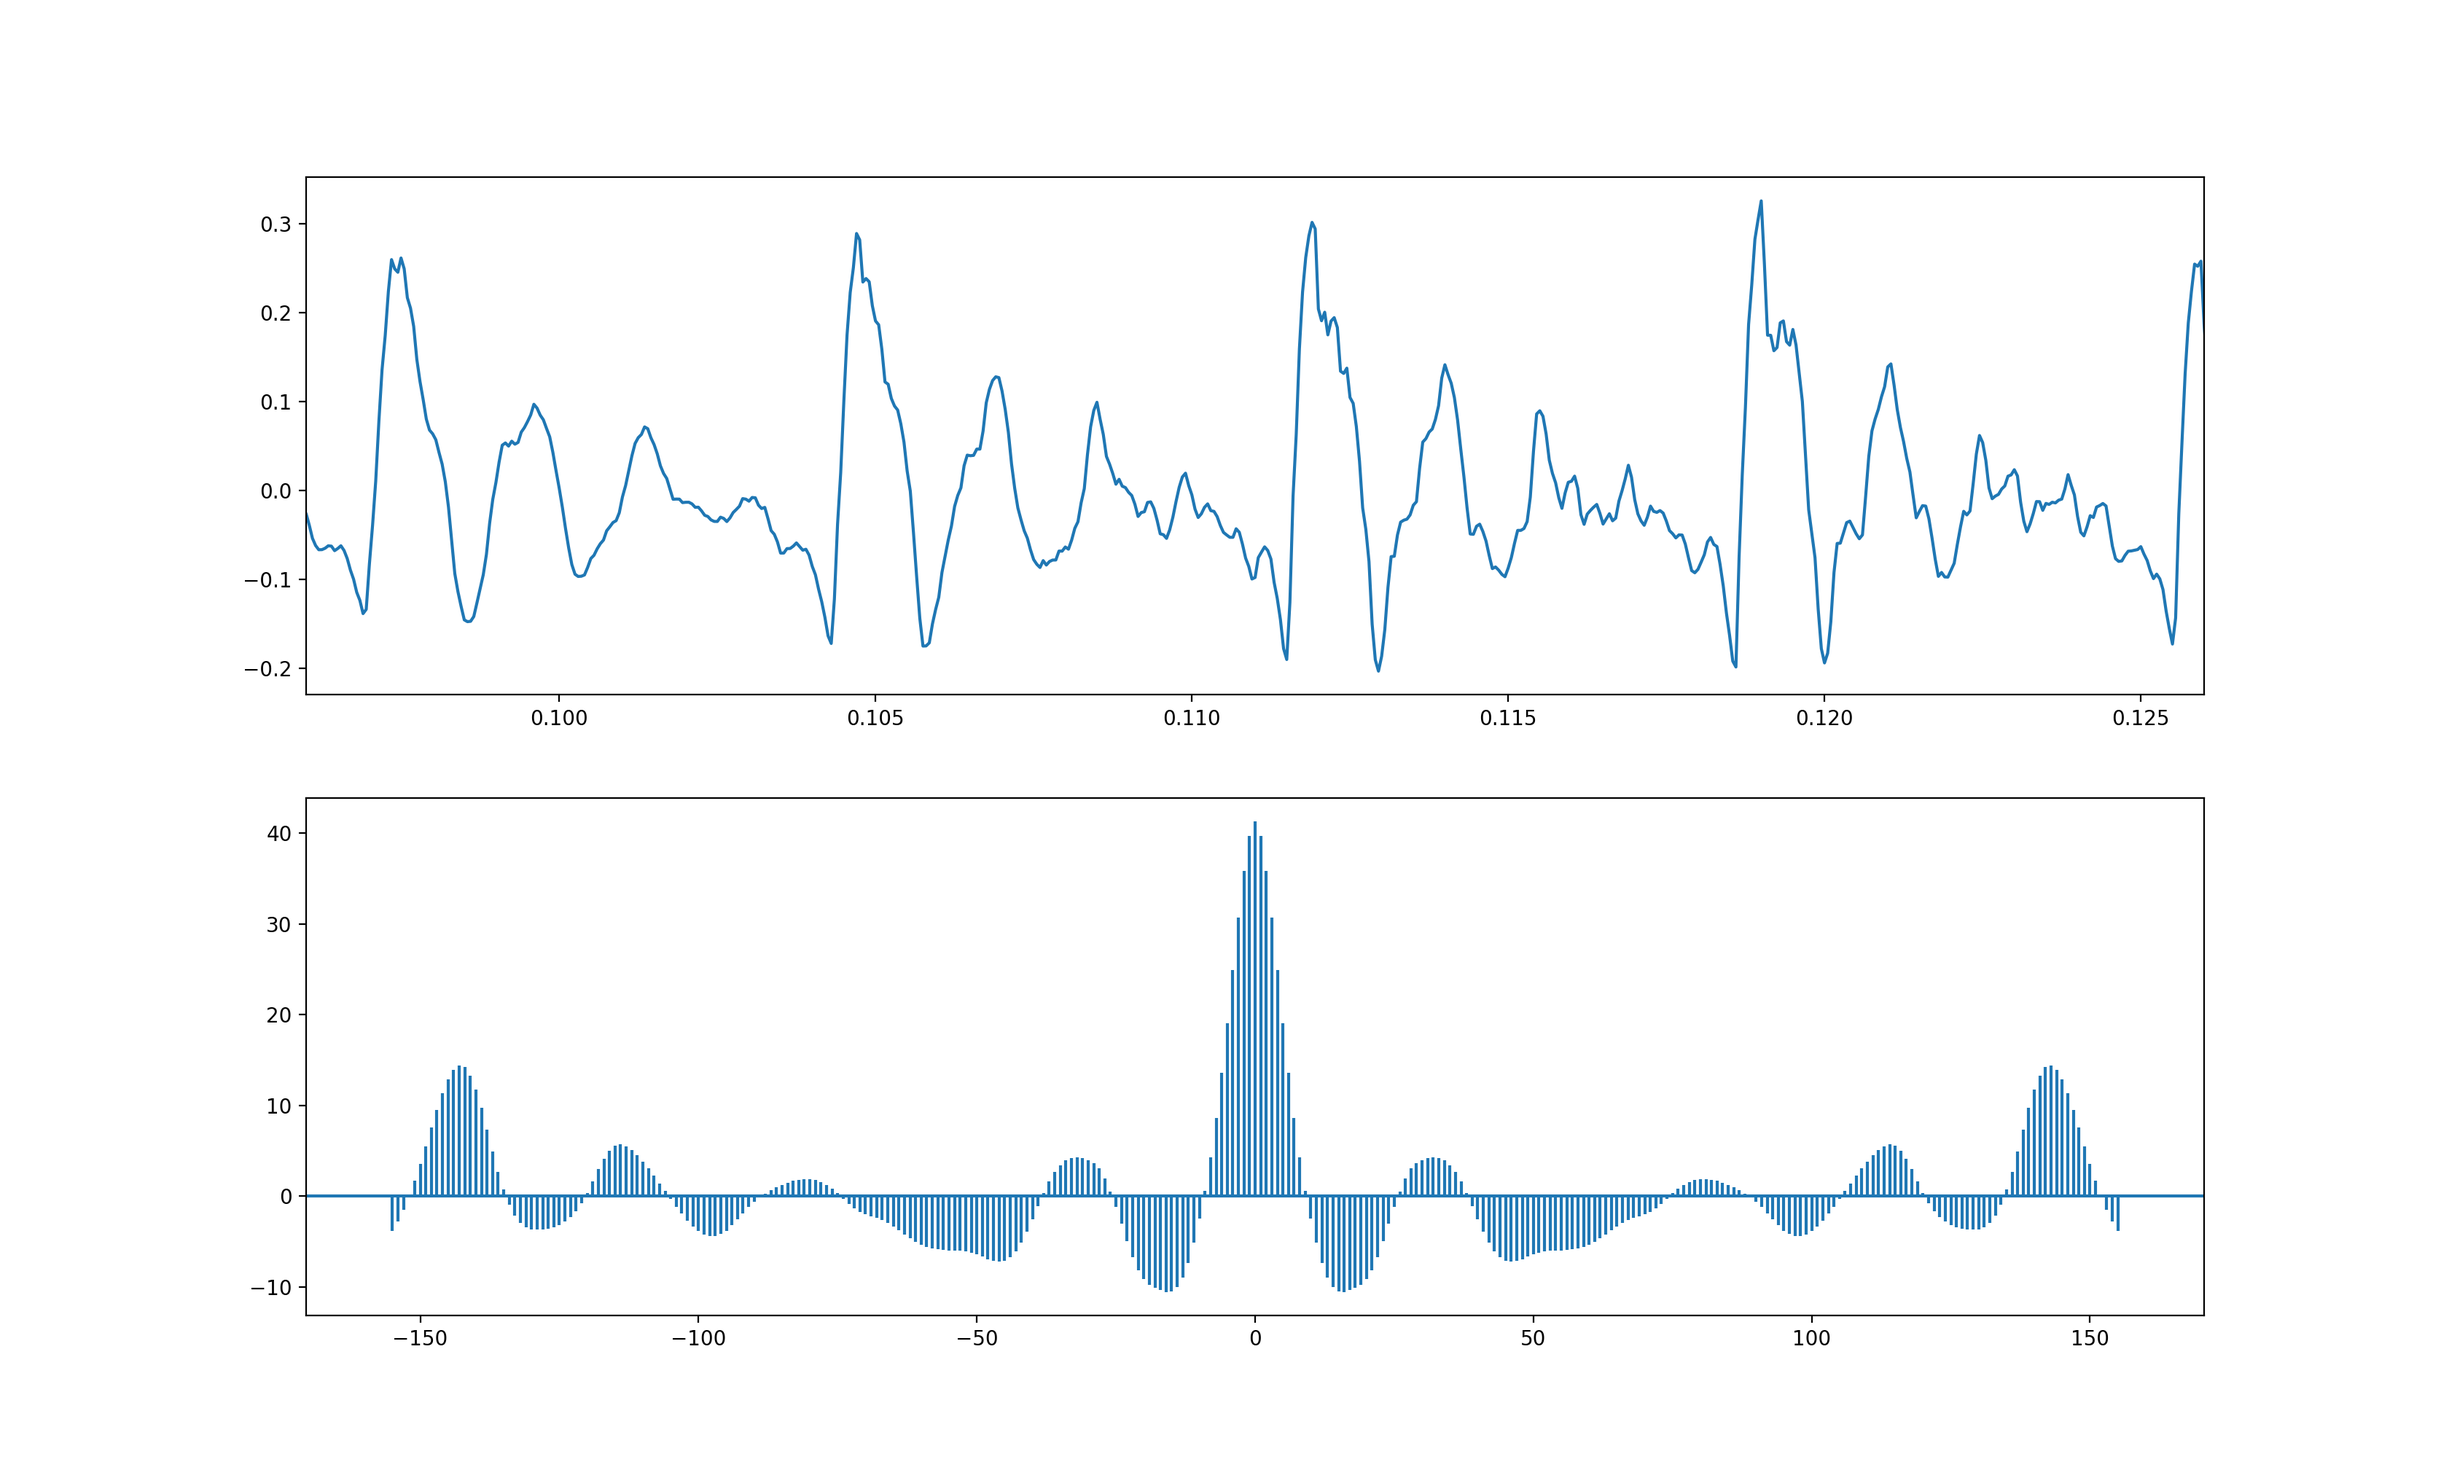
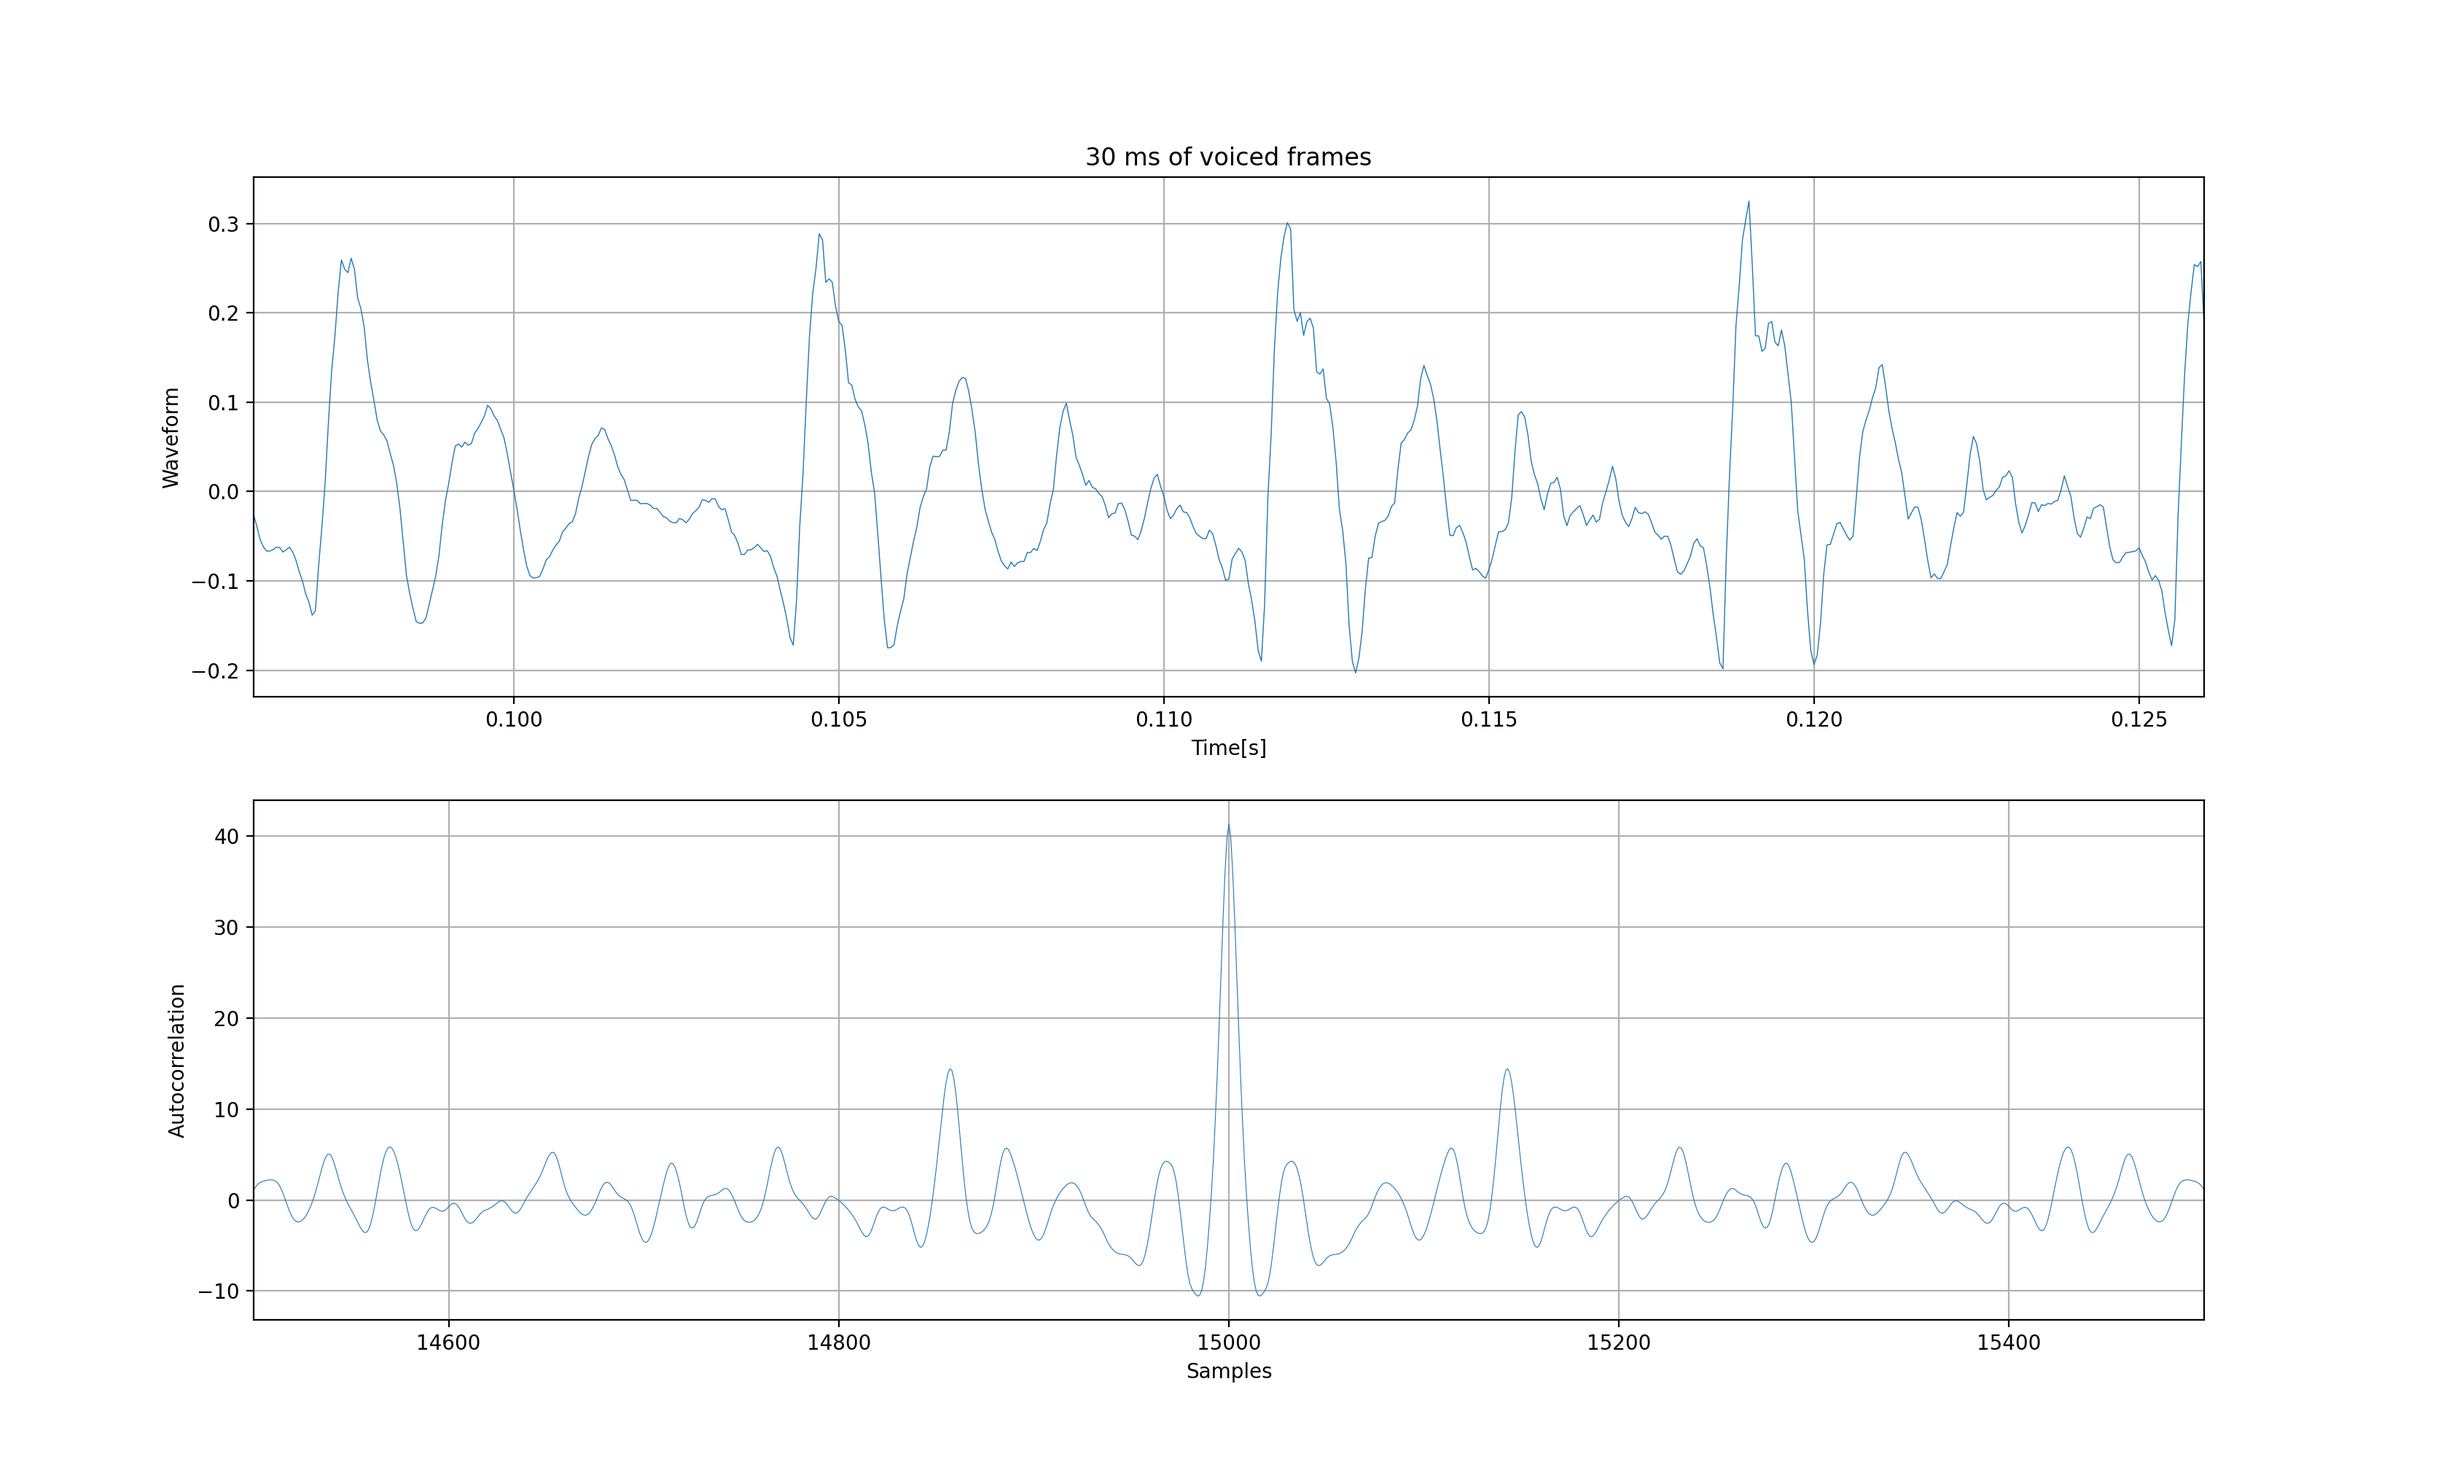
19 abril 01

diff --git a/src/get_pitch/pitch_analyzer.cpp b/src/get_pitch/pitch_analyzer.cpp
@@ -29,10 +29,16 @@ namespace upc {
       return;
 
     window.resize(frameLen);
-
+    const float c0 = 0.54;
+    const float c1 = 0.46;
     switch (win_type) {
     case HAMMING:
       /// \TODO Implement the Hamming window
+      
+      for(unsigned int i = 0; i < frameLen; i++){
+        window[i] = c0 - c1*cos((2*M_PI*i)/frameLen);
+      }
+      /// \DONE
       break;
     case RECT:
     default:
@@ -56,9 +62,11 @@ namespace upc {
     /// \TODO Implement a rule to decide whether the sound is voiced or not.
     /// * You can use the standard features (pot, r1norm, rmaxnorm),
     ///   or compute and use other ones.
-  
-
-    return false;
+    if (pot < -41 || r1norm < 0.80 || rmaxnorm < 0.40) //son parametres escollits fent proves
+      return true;
+    else
+      return false;
+    /// \DONE
   }
 
   float PitchAnalyzer::compute_pitch(vector<float> & x) const {

diff --git a/generacion_graficos.py b/generacion_graficos.py
@@ -1,0 +1,29 @@
+import numpy as np
+import soundfile as sf
+import matplotlib.pyplot as plt
+arxiu='/Users/sergi24sanchez/PAV/P3/pitch_db/train/rl001.wav'
+x,fm=sf.read(arxiu)
+
+#Time vector
+samples = []
+for i in range(0,len(x)):
+    samples.append(i/fm)
+
+#Autocorrelation
+autocorrelation=np.correlate(x,x,"same")
+m = np.arange(len(autocorrelation))
+
+plt.subplot(2,1,1)
+plt.plot(samples,x,lineWidth=0.5)
+plt.title('30 ms of voiced frames')
+plt.grid(True)
+plt.xlabel('Time[s]')
+plt.ylabel('Waveform')
+plt.xlim(0.096,0.126)
+plt.subplot(2,1,2)
+plt.plot(autocorrelation,lineWidth=0.4)
+plt.xlabel('Samples')
+plt.ylabel('Autocorrelation')
+plt.xlim(len(autocorrelation)/2-500,len(autocorrelation)/2+500)
+plt.grid(True)
+plt.show()

diff --git a/src/get_pitch/get_pitch.cpp b/src/get_pitch/get_pitch.cpp
@@ -59,7 +59,7 @@ int main(int argc, const char *argv[]) {
   int n_shift = rate * FRAME_SHIFT;
 
   // Define analyzer
-  PitchAnalyzer analyzer(n_len, rate, PitchAnalyzer::RECT, 50, 500);
+  PitchAnalyzer analyzer(n_len, rate, PitchAnalyzer::HAMMING, 50, 500);
 
   /// \TODO
   /// Preprocess the input signal in order to ease pitch estimation. For instance,
